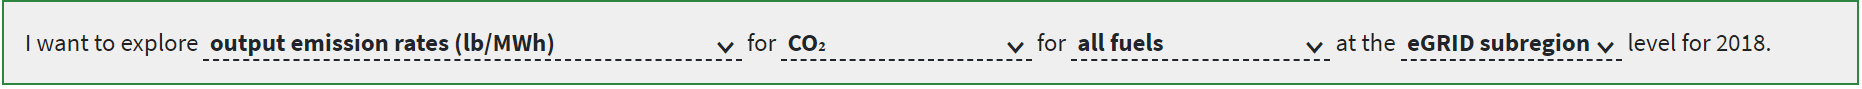
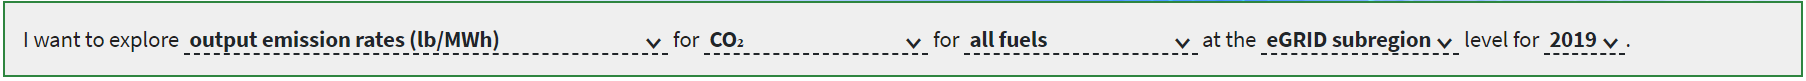
small fixes

diff --git a/src/Dialog.js b/src/Dialog.js
@@ -61,9 +61,9 @@ function Dialog(props) {
           </a>{" "}
           and in this Data Explorer.&nbsp; The queried data are selected with a
           series of dropdown buttons, which are incorporated into a sentence and
-          displayed in a responsive map and bar chart. Four dropdowns comprise
+          displayed in a responsive map and bar chart. Five dropdowns comprise
           the query sentence: 1) an environmental characteristic, 2) a
-          pollutant, 3) a fuel type, and 4) a geographic level.
+          pollutant, 3) a fuel type, 4) a geographic level, and 5) year.
         </p>
         <img src={instruction_sentence} alt="query sentence" />
         <p>

diff --git a/src/Visualization.js b/src/Visualization.js
@@ -243,7 +243,7 @@ class Visualization extends Component {
                     '","' +
                     this.state.specific_plant_data_export[this.props.plant_table_rows[c]] +
                     '"\r\n';
-                  if (i===0) csv+="Year, " + this.props.tier5 + "\r\n";
+                  if (i===0) csv+="Year, " + lookup[this.props.tier5] + "\r\n";
                 });
                 filename = this.state.specific_plant_data_export["Plant Name"] + ',' + this.state.name.split(',').splice(-1);
               } else {

diff --git a/src/App.css b/src/App.css
@@ -612,6 +612,7 @@ table td {
   color: #000 !important;
   margin: 0 !important;
   padding: 0 !important;
+  background-color: transparent !important;
 }
 
 /* export visualization */
